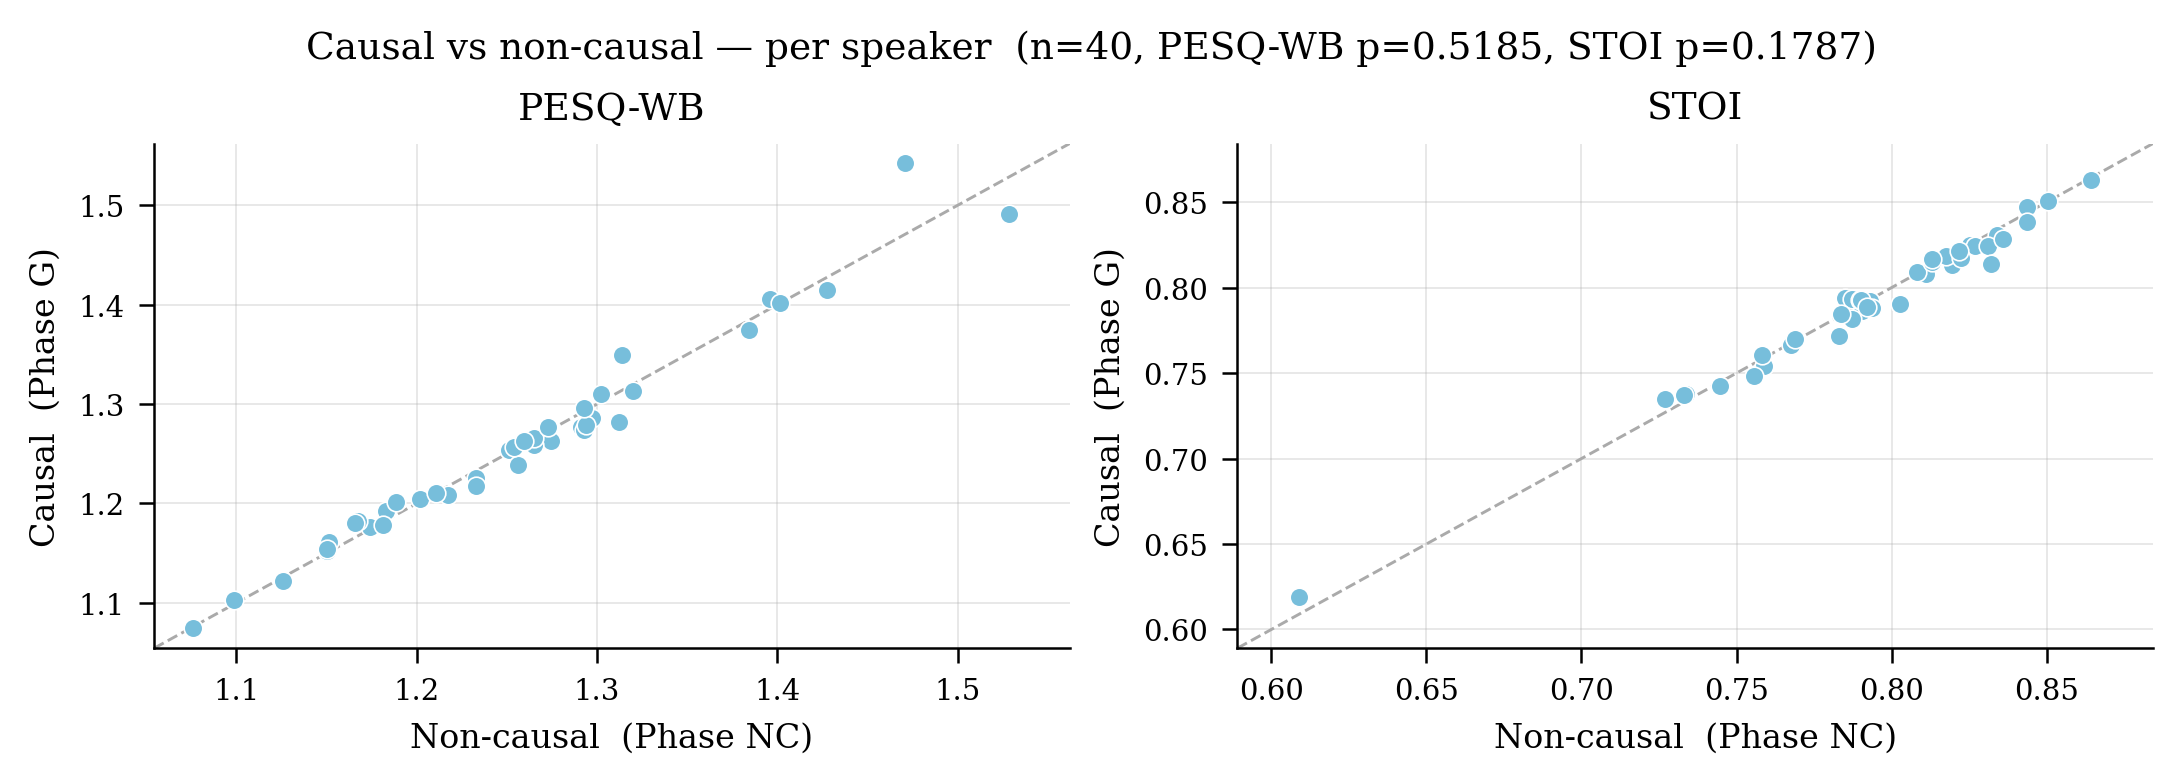
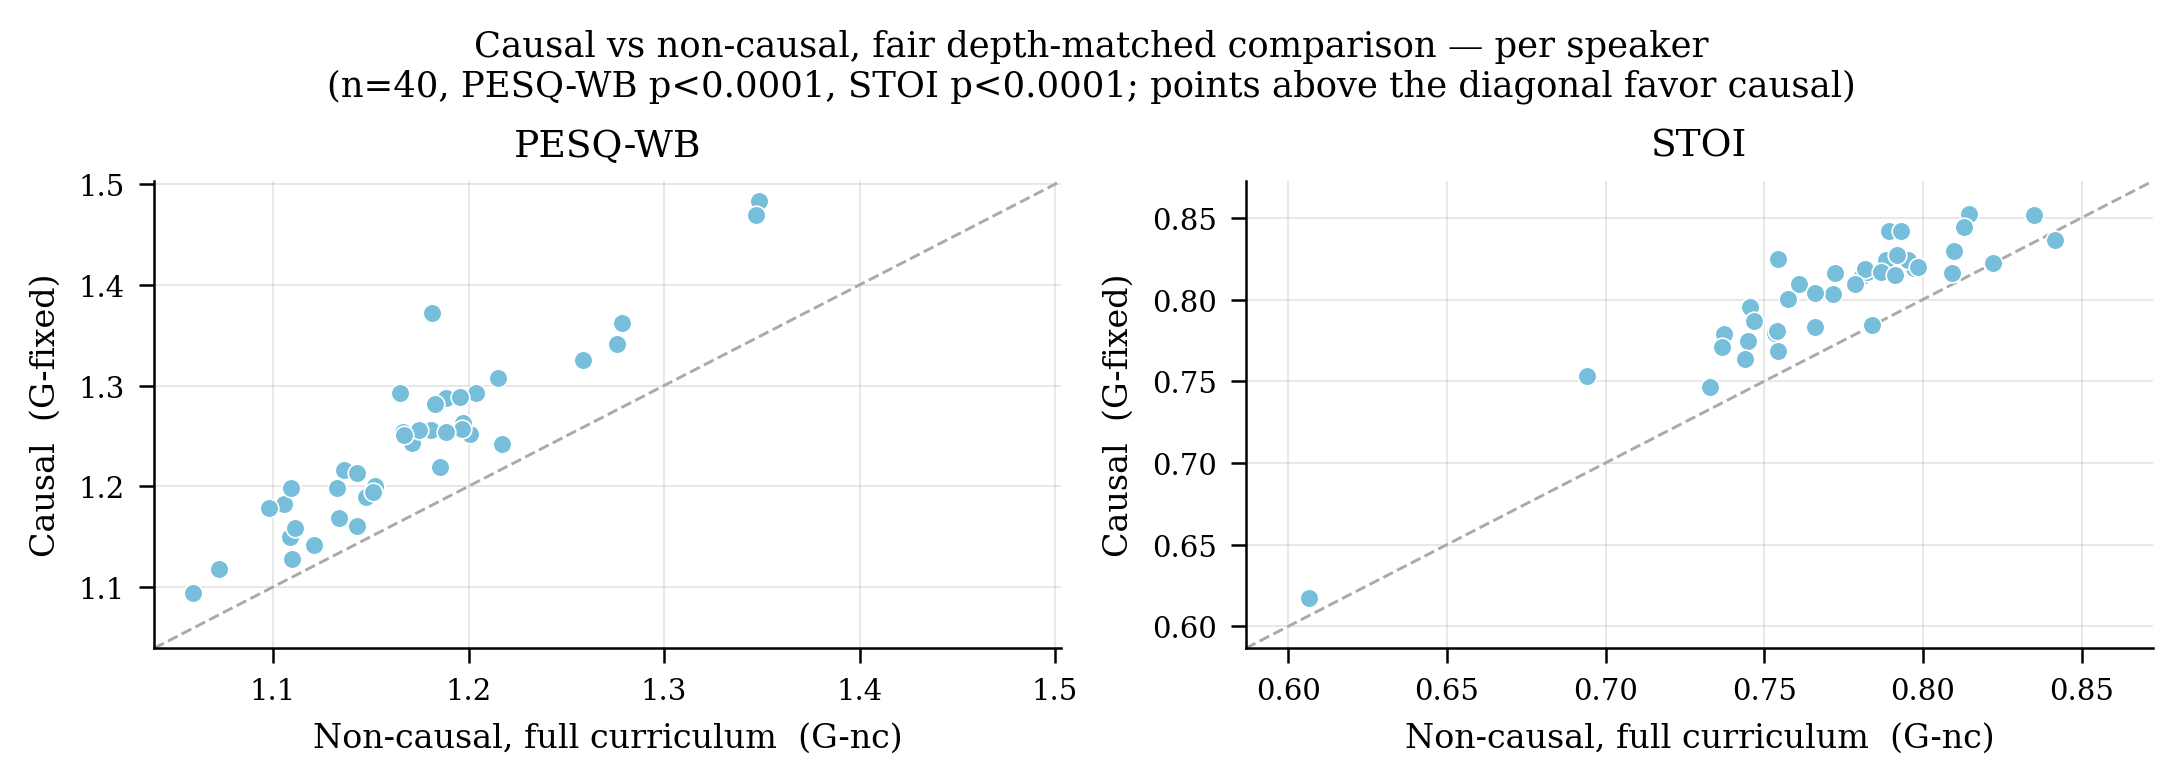
fix: update causality ablation descriptions and improve figure captions in README and plots

diff --git a/scripts/figures/plots.py b/scripts/figures/plots.py
@@ -276,7 +276,7 @@ def fig_06_compression(data: dict) -> plt.Figure:
 
 
 # ---------------------------------------------------------------------------
-# fig_07 — Causality ablation: G vs NC per-speaker
+# fig_07 — Causality ablation: G-fixed vs G-nc per-speaker
 # ---------------------------------------------------------------------------
 
 def fig_07_causality(data: dict) -> plt.Figure:
@@ -284,9 +284,12 @@ def fig_07_causality(data: dict) -> plt.Figure:
     if metrics is None:
         raise DataNotAvailable('metrics DataFrame not loaded')
     wilcoxon = data.get('wilcoxon', [])
-    nc_p = {r['metric']: r['p_value'] for r in wilcoxon if r['contrast'] == 'G vs NC'}
-    g  = metrics[metrics['phase'] == 'G'].set_index('speaker')
-    nc = metrics[metrics['phase'] == 'NC'].set_index('speaker')
+    # G-fixed vs G-nc (#45): corrected attention window, both models trained
+    # the full A-G curriculum, not the superseded G vs NC (30-epoch fine-tune,
+    # pre-#27 window bug) contrast.
+    nc_p = {r['metric']: r['p_value'] for r in wilcoxon if r['contrast'] == 'G-fixed vs G-nc'}
+    g  = metrics[metrics['phase'] == 'G-fixed'].set_index('speaker')
+    nc = metrics[metrics['phase'] == 'G-nc'].set_index('speaker')
     common = g.index.intersection(nc.index)
 
     fig, (ax1, ax2) = plt.subplots(1, 2, figsize=(style.COL2_W, style.ROW_H))
@@ -303,11 +306,17 @@ def fig_07_causality(data: dict) -> plt.Figure:
         ax.set_xlim(lo, hi)
         ax.set_ylim(lo, hi)
         ax.set_title(label, fontsize=9)
-        ax.set_xlabel('Non-causal  (Phase NC)')
-        ax.set_ylabel('Causal  (Phase G)')
+        ax.set_xlabel('Non-causal, full curriculum  (G-nc)')
+        ax.set_ylabel('Causal  (G-fixed)')
         ax.grid(True)
-    p_str = f'PESQ-WB p={nc_p.get("PESQ-WB", "n/a")}, STOI p={nc_p.get("STOI", "n/a")}' if nc_p else 'ns'
-    fig.suptitle(f'Causal vs non-causal — per speaker  (n=40, {p_str})', fontsize=9)
+    def _fmt_p(pv):
+        if pv is None:
+            return 'n/a'
+        op = '<' if pv.startswith('<') else '='
+        return f'p{op}{pv.lstrip("<")}'
+    p_str = f'PESQ-WB {_fmt_p(nc_p.get("PESQ-WB"))}, STOI {_fmt_p(nc_p.get("STOI"))}' if nc_p else 'ns'
+    fig.suptitle(f'Causal vs non-causal, fair depth-matched comparison — per speaker\n'
+                 f'(n=40, {p_str}; points above the diagonal favor causal)', fontsize=8.5)
     return fig
 
 

diff --git a/scripts/generate_figures.py b/scripts/generate_figures.py
@@ -55,7 +55,7 @@ FIGURES: dict[str, tuple] = {
     'fig_13_compression':             (plots.fig_06_compression,        'zlib compression ratio + effective kbps per phase'),
     'fig_14_ood_signals':             (plots.fig_05_ood,                'OOD evaluation: bitrate + STOI by signal type'),
     'fig_15_vctk_generalization':     (plots.fig_23_vctk_generalization,'VCTK cross-corpus generalization (OOD validation)'),
-    'fig_16_causality':               (plots.fig_07_causality,          'Causal (G) vs non-causal (NC) per speaker'),
+    'fig_16_causality':               (plots.fig_07_causality,          'Causal (G-fixed) vs non-causal, full curriculum (G-nc) per speaker'),
     'fig_17_corruption':              (plots.fig_09_corruption,         'Bitstream corruption robustness'),
     'fig_18_speaker_probe':           (plots.fig_08_speaker_probe,      'Speaker identity probe recall (sorted)'),
     'fig_19_music_eval':              (plots.fig_19_music_eval,         'Music evaluation SI-SDR  (requires music eval run)'),

diff --git a/README.md b/README.md
@@ -80,7 +80,11 @@ An earlier non-causal ablation (bidirectional attention, fine-tuned for 30 epoch
 | NC-fixed (non-causal, 30-epoch fine-tune) | 5.80 kbps | 1.222 | 0.791 |
 | G-nc (non-causal, full A→G curriculum) | 5.55 kbps | 1.173 | 0.772 |
 
-Causal beats non-causal under both protocols (paired Wilcoxon, n=40, p<0.0001 on PESQ-WB and STOI for G-fixed vs. NC-fixed and for G-fixed vs. G-nc). Training the non-causal model to the same depth as causal doesn't close the gap — it widens it, ruling out "non-causal just needed more training" as an explanation. The effect is real but small (ΔPESQ ≈ 0.07–0.10) next to the ~1.6-point gap to EnCodec at comparable bitrate below: causality is a minor contributor to that gap, not the explanation for it — the paper's argument remains that most of the gap comes from EnCodec's adversarial training producing a fundamentally different latent-shaping signal than any reconstruction-based loss used here can supply.
+Causal beats non-causal under both protocols (paired Wilcoxon, n=40, p<0.0001 on PESQ-WB and STOI for G-fixed vs. NC-fixed and for G-fixed vs. G-nc). Training the non-causal model to the same depth as causal doesn't close the gap — it widens it, ruling out "non-causal just needed more training" as an explanation:
+
+![Causal vs non-causal, per-speaker PESQ-WB and STOI, fair depth-matched comparison](plots/fig_16_causality.png)
+
+Almost every speaker falls above the diagonal — causal wins consistently, not just on average. The effect is real but small (ΔPESQ ≈ 0.07–0.10) next to the ~1.6-point gap to EnCodec at comparable bitrate below: causality is a minor contributor to that gap, not the explanation for it — the paper's argument remains that most of the gap comes from EnCodec's adversarial training producing a fundamentally different latent-shaping signal than any reconstruction-based loss used here can supply.
 
 ---
 
